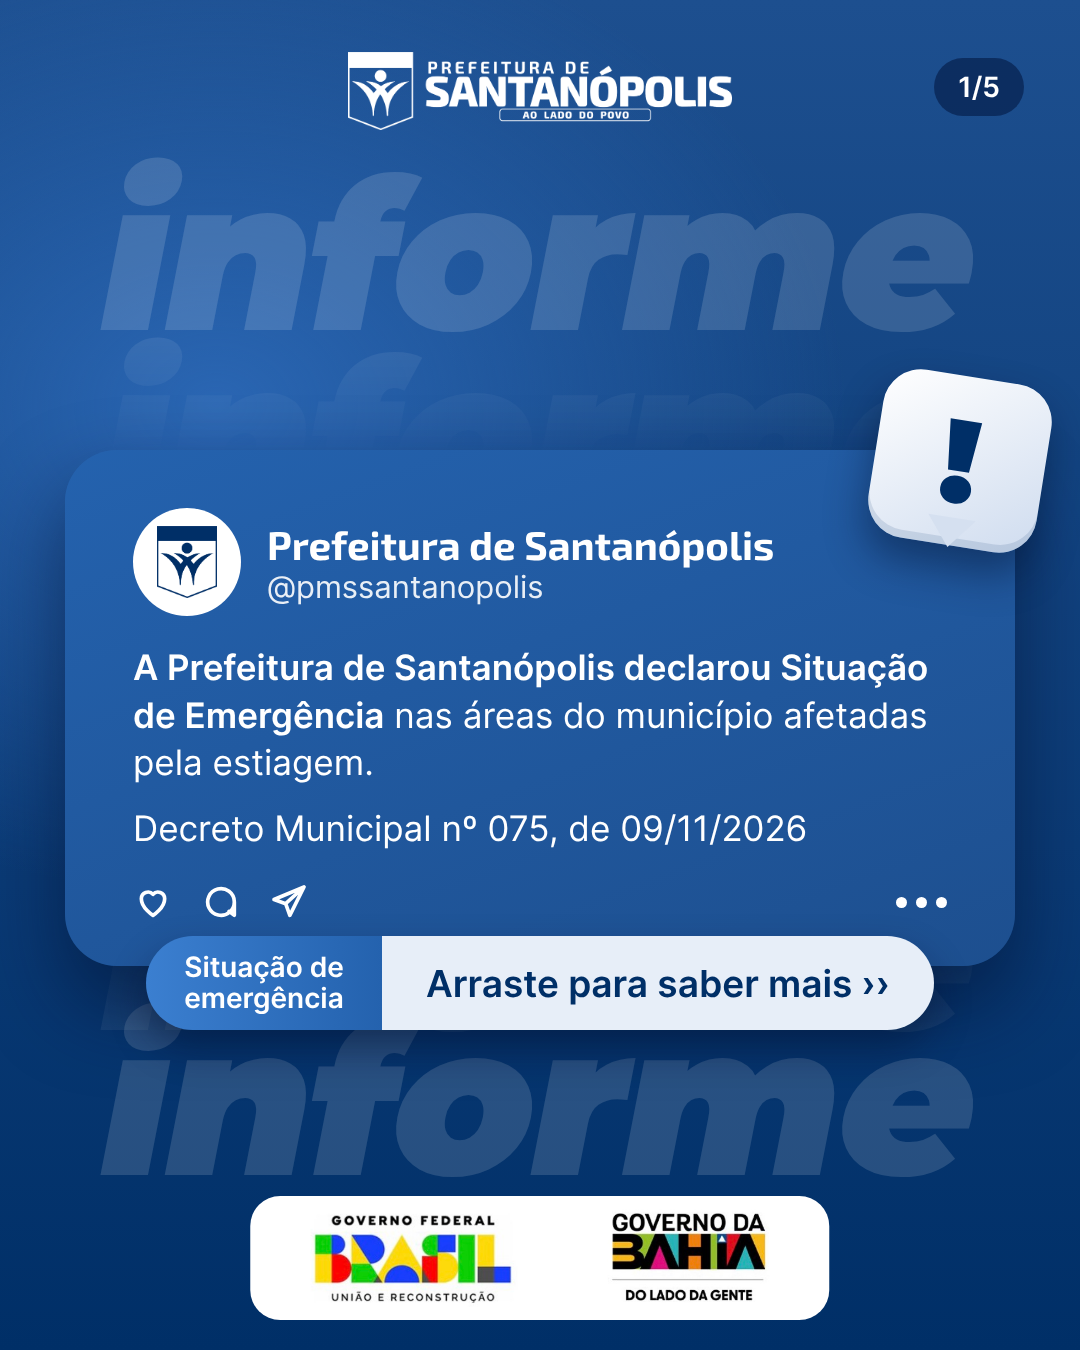
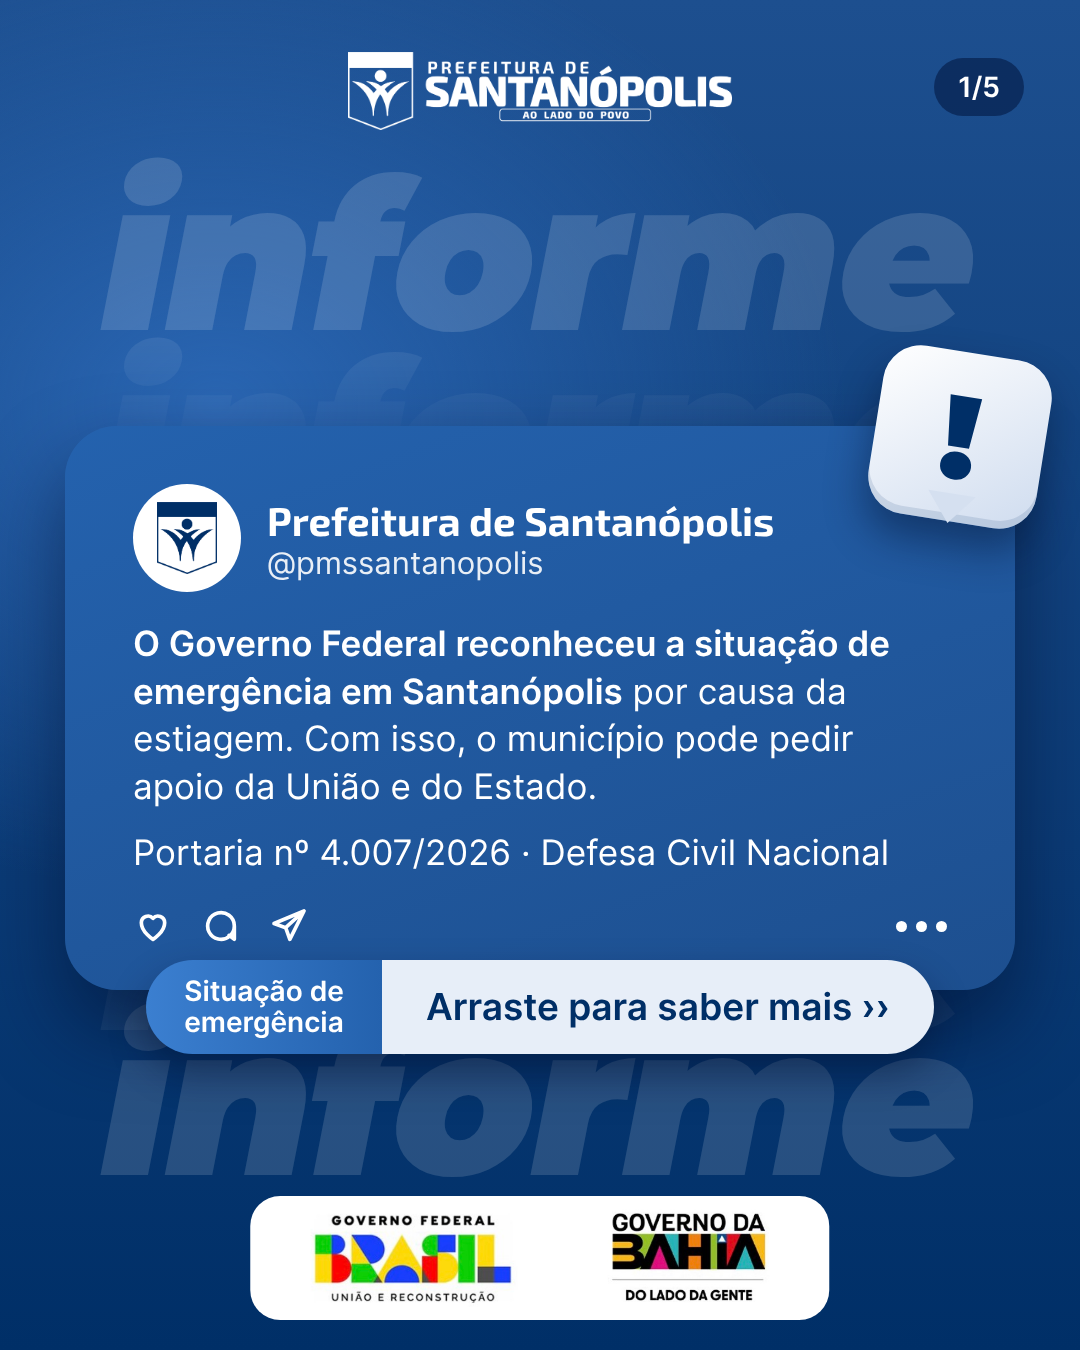
Santanópolis carrossel: reconhecimento estadual (Dec. 24.924/2026) e federal (Port. 4.007/2026)
Claude-Session: https://claude.ai/code/session_01RAcsiCiDCVVreYogk6Tt2T

Changed region(s): [[0.0611, 0.3422, 0.9472, 0.7778], [0.55, 0.2489, 0.9778, 0.4356]]

diff --git a/clientes/prefeitura-santanopolis/entregas/2026-11-25-carrossel-situacao-emergencia/02-tres-esferas.html b/clientes/prefeitura-santanopolis/entregas/2026-11-25-carrossel-situacao-emergencia/02-tres-esferas.html
@@ -1,6 +1,6 @@
 <!doctype html><meta charset="utf-8"><meta name="tamanho" content="1080x1350">
 <link rel="stylesheet" href="../../../../ferramentas/fontes.css"><link rel="stylesheet" href="estilo.css">
-<!-- Fonte dos dados: Decreto Municipal nº 075/2026 (Diário Oficial de Santanópolis, 09/11/2026). -->
+<!-- Fontes: Decreto Municipal nº 075/2026; Decreto Estadual nº 24.924/2026 e Portaria nº 4.007/2026 (informados pelo dono). -->
 <div class="topo"><img src="../../identidade/logo-prefeitura-branco.png" alt=""></div>
 <div class="pag">2/5</div>
 <div class="palavra p1">informe</div><div class="palavra p2">informe</div>
@@ -9,12 +9,11 @@
   <div class="alerta"><b>!</b></div>
   <div class="perfil"><div class="avatar"><img src="assets/brasao-santanopolis.png" alt=""></div>
     <div><b>Prefeitura de Santanópolis</b><span>@pmssantanopolis</span></div></div>
-  <p><strong>O que diz o Decreto nº 075/2026:</strong></p>
+  <p><strong>A situação de emergência está reconhecida nas três esferas:</strong></p>
   <ul style="margin-top:16px">
-   <li>Estiagem classificada como desastre de nível II (média intensidade)</li>
-   <li>Órgãos municipais mobilizados, sob coordenação da Defesa Civil</li>
-   <li>Prioridade: água potável e atendimento às famílias afetadas</li>
-   <li>Vale por 180 dias</li>
+   <li><strong>Municipal:</strong> Decreto nº 075/2026</li>
+   <li><strong>Estadual:</strong> Decreto nº 24.924/2026</li>
+   <li><strong>Federal:</strong> Portaria nº 4.007/2026</li>
   </ul>
   <div class="acoes">
     <svg viewBox="0 0 24 24"><path d="M12 20s-7-4.4-7-10a4 4 0 0 1 7-2.6A4 4 0 0 1 19 10c0 5.6-7 10-7 10z"/></svg>
@@ -23,6 +22,6 @@
     <span class="pontos"><i></i><i></i><i></i></span>
   </div>
 </div>
-<div class="pilula"><span class="rot">Decreto<br>nº 075/2026</span><span class="val">Estiagem · 180 dias</span></div>
+<div class="pilula"><span class="rot">Reconhecida<br>nas três esferas</span><span class="val">Município · Estado · União</span></div>
 </div>
 <div class="rodape"><img src="assets/gov-federal-recorte.png" alt=""><img src="assets/gov-bahia-recorte.png" alt=""></div>

diff --git a/clientes/prefeitura-santanopolis/entregas/2026-11-25-carrossel-situacao-emergencia/01-situacao-emergencia.html b/clientes/prefeitura-santanopolis/entregas/2026-11-25-carrossel-situacao-emergencia/01-situacao-emergencia.html
@@ -1,6 +1,6 @@
 <!doctype html><meta charset="utf-8"><meta name="tamanho" content="1080x1350">
 <link rel="stylesheet" href="../../../../ferramentas/fontes.css"><link rel="stylesheet" href="estilo.css">
-<!-- Fonte dos dados: Decreto Municipal nº 075/2026 (Diário Oficial de Santanópolis, 09/11/2026). -->
+<!-- Fontes: Decreto Municipal nº 075/2026; Decreto Estadual nº 24.924/2026 e Portaria nº 4.007/2026 (informados pelo dono). -->
 <div class="topo"><img src="../../identidade/logo-prefeitura-branco.png" alt=""></div>
 <div class="pag">1/5</div>
 <div class="palavra p1">informe</div><div class="palavra p2">informe</div>
@@ -9,8 +9,8 @@
   <div class="alerta"><b>!</b></div>
   <div class="perfil"><div class="avatar"><img src="assets/brasao-santanopolis.png" alt=""></div>
     <div><b>Prefeitura de Santanópolis</b><span>@pmssantanopolis</span></div></div>
-  <p><strong>A Prefeitura de Santanópolis declarou Situação de Emergência</strong> nas áreas do município afetadas pela estiagem.</p>
-  <p style="margin-top:18px">Decreto Municipal nº 075, de 09/11/2026</p>
+  <p><strong>O Governo Federal reconheceu a situação de emergência em Santanópolis</strong> por causa da estiagem. Com isso, o município pode pedir apoio da União e do Estado.</p>
+  <p style="margin-top:18px">Portaria nº 4.007/2026 · Defesa Civil Nacional</p>
   <div class="acoes">
     <svg viewBox="0 0 24 24"><path d="M12 20s-7-4.4-7-10a4 4 0 0 1 7-2.6A4 4 0 0 1 19 10c0 5.6-7 10-7 10z"/></svg>
     <svg viewBox="0 0 24 24"><path d="M20 12a8 8 0 1 1-3.2-6.4A8 8 0 0 1 20 12zM20 12v8l-3.2-2.4"/></svg>

diff --git a/clientes/prefeitura-santanopolis/entregas/2026-11-25-carrossel-situacao-emergencia/03-agua-assistencia.html b/clientes/prefeitura-santanopolis/entregas/2026-11-25-carrossel-situacao-emergencia/03-agua-assistencia.html
@@ -1,6 +1,6 @@
 <!doctype html><meta charset="utf-8"><meta name="tamanho" content="1080x1350">
 <link rel="stylesheet" href="../../../../ferramentas/fontes.css"><link rel="stylesheet" href="estilo.css">
-<!-- Fonte dos dados: Decreto Municipal nº 075/2026 (Diário Oficial de Santanópolis, 09/11/2026). -->
+<!-- Fontes: Decreto Municipal nº 075/2026; Decreto Estadual nº 24.924/2026 e Portaria nº 4.007/2026 (informados pelo dono). -->
 <div class="topo"><img src="../../identidade/logo-prefeitura-branco.png" alt=""></div>
 <div class="pag">3/5</div>
 <div class="palavra p1">informe</div><div class="palavra p2">informe</div>
@@ -9,7 +9,7 @@
   <div class="alerta"><b>!</b></div>
   <div class="perfil"><div class="avatar"><img src="assets/brasao-santanopolis.png" alt=""></div>
     <div><b>Prefeitura de Santanópolis</b><span>@pmssantanopolis</span></div></div>
-  <p><strong>O que muda:</strong> com o decreto, Santanópolis pode solicitar apoio do Estado e da União</p>
+  <p><strong>O que muda:</strong> Santanópolis pode solicitar</p>
   <h3>ÁGUA</h3>
   <ul><li>Operação Carro-Pipa</li><li>Prioridade na perfuração de poços</li><li>Programas de cisternas</li></ul>
   <h3>ASSISTÊNCIA ÀS FAMÍLIAS</h3>

diff --git a/clientes/prefeitura-santanopolis/entregas/2026-11-25-carrossel-situacao-emergencia/04-campo-defesa-civil.html b/clientes/prefeitura-santanopolis/entregas/2026-11-25-carrossel-situacao-emergencia/04-campo-defesa-civil.html
@@ -1,6 +1,6 @@
 <!doctype html><meta charset="utf-8"><meta name="tamanho" content="1080x1350">
 <link rel="stylesheet" href="../../../../ferramentas/fontes.css"><link rel="stylesheet" href="estilo.css">
-<!-- Fonte dos dados: Decreto Municipal nº 075/2026 (Diário Oficial de Santanópolis, 09/11/2026). -->
+<!-- Fontes: Decreto Municipal nº 075/2026; Decreto Estadual nº 24.924/2026 e Portaria nº 4.007/2026 (informados pelo dono). -->
 <div class="topo"><img src="../../identidade/logo-prefeitura-branco.png" alt=""></div>
 <div class="pag">4/5</div>
 <div class="palavra p1">informe</div><div class="palavra p2">informe</div>

diff --git a/clientes/prefeitura-santanopolis/entregas/2026-11-25-carrossel-situacao-emergencia/05-faca-sua-parte.html b/clientes/prefeitura-santanopolis/entregas/2026-11-25-carrossel-situacao-emergencia/05-faca-sua-parte.html
@@ -1,6 +1,6 @@
 <!doctype html><meta charset="utf-8"><meta name="tamanho" content="1080x1350">
 <link rel="stylesheet" href="../../../../ferramentas/fontes.css"><link rel="stylesheet" href="estilo.css">
-<!-- Fonte dos dados: Decreto Municipal nº 075/2026 (Diário Oficial de Santanópolis, 09/11/2026). -->
+<!-- Fontes: Decreto Municipal nº 075/2026; Decreto Estadual nº 24.924/2026 e Portaria nº 4.007/2026 (informados pelo dono). -->
 <div class="topo"><img src="../../identidade/logo-prefeitura-branco.png" alt=""></div>
 <div class="pag">5/5</div>
 <div class="palavra p1">informe</div><div class="palavra p2">informe</div>
